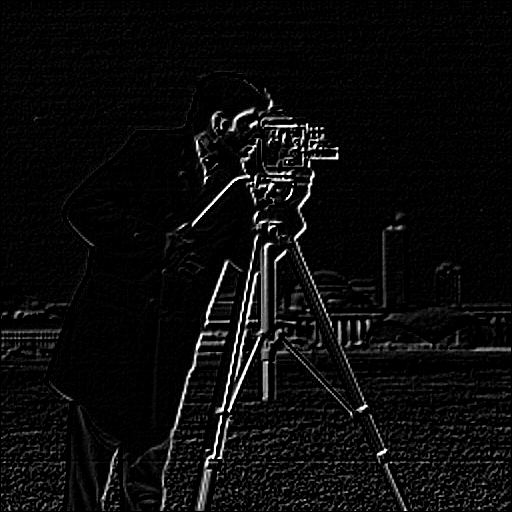
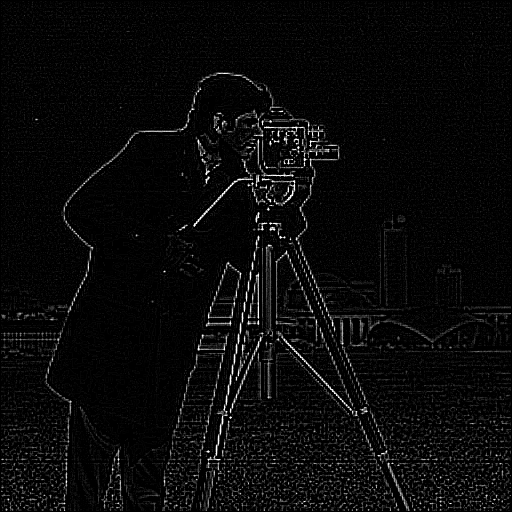
Update Operation

diff --git a/lab/CitraDigital/processing_list.py b/lab/CitraDigital/processing_list.py
@@ -1155,7 +1155,7 @@ def ImgGradientEdgeDetection2(img_input,coldepth):
    return img_output
 
 
-#sharpening spatial filter
+#sharpening spatial filter with mask 3x3 (laplacian)
 def ImgSharpeningFilter(img_input,coldepth):
    mask = [[0, -1, 0], [-1, 5, -1], [0, -1, 0]]
    
@@ -1561,6 +1561,61 @@ def ImgCompassEdgeDetection(img_input,coldepth):
                r_sum += pixel[0] * mask[a][b]
                g_sum += pixel[1] * mask[a][b]
                b_sum += pixel[2] * mask[a][b]
+
+         pixels[i,j] = (r_sum,g_sum,b_sum)
+   
+
+   if coldepth == 1:
+         img_output = img_output.convert("1")
+   elif coldepth == 8:
+         img_output = img_output.convert("L")
+   else:
+         img_output = img_output.convert("RGB")
+
+   return img_output
+
+
+#canny edge detection
+def ImgCannyEdgeDetection(img_input,coldepth):
+   mask = [[-1, -1, -1], [-1, 8, -1], [-1, -1, -1]]
+   if coldepth!=24:
+      img_input = img_input.convert('RGB')
+   
+   img_output = Image.new('RGB', (img_input.size[0], img_input.size[1]))
+
+   pixels = img_output.load()
+   input_pixels = img_input.load()
+
+   for i in range(img_input.size[0]):
+      for j in range(img_input.size[1]):
+         pixels[i,j] = (0,0,0)
+
+   for i in range(1,img_input.size[0]-1):
+      for j in range(1,img_input.size[1]-1):
+         r_sum = 0
+         g_sum = 0
+         b_sum = 0
+         for a in range(3):
+            for b in range(3):
+               xn = i + a - 1
+               yn = j + b - 1
+               pixel = input_pixels[xn, yn]
+               r_sum += pixel[0] * mask[a][b]
+               g_sum += pixel[1] * mask[a][b]
+               b_sum += pixel[2] * mask[a][b]
+
+         if r_sum<0:
+            r_sum=0
+         if g_sum<0:
+            g_sum=0
+         if b_sum<0:
+            b_sum=0
+         if r_sum>255:
+            r_sum=255
+         if g_sum>255:
+            g_sum=255
+         if b_sum>255:
+            b_sum=255
 
          pixels[i,j] = (r_sum,g_sum,b_sum)
    

diff --git a/lab/CitraDigital/Citra.py b/lab/CitraDigital/Citra.py
@@ -255,6 +255,10 @@ list_processing = [
  [
  #compass filter
  sg.Button("Compass Filter", size=(20, 1), key="ImgCompassFilter"),
+ ],
+ [
+ #canny filter
+ sg.Button("Canny Filter", size=(20, 1), key="ImgCannyFilter"),
  ]
 ]
 # Kolom Area No 4: Area viewer image output
@@ -694,6 +698,16 @@ while True:
      try:
          window["ImgProcessingType"].update("Image Compass Filter")
          img_output=ImgCompassEdgeDetection(img_input,coldepth)
+         img_output.save(filename_out)
+         window["ImgOutputViewer"].update(filename=filename_out)
+     except:
+         pass
+
+ elif event == "ImgCannyFilter":
+
+     try:
+         window["ImgProcessingType"].update("Image Canny Filter")
+         img_output=ImgCannyEdgeDetection(img_input,coldepth)
          img_output.save(filename_out)
          window["ImgOutputViewer"].update(filename=filename_out)
      except:
